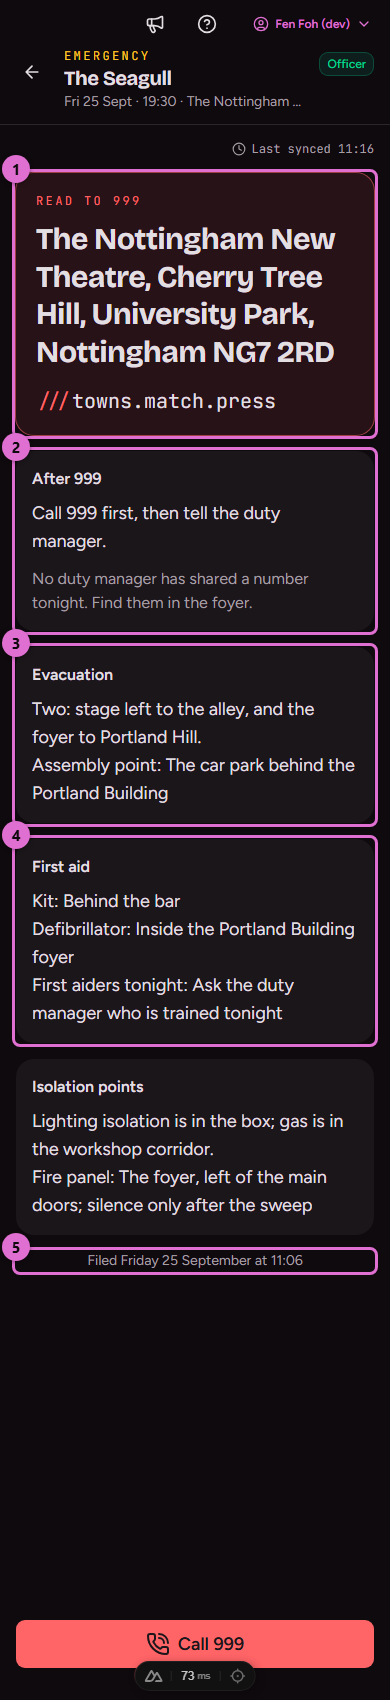
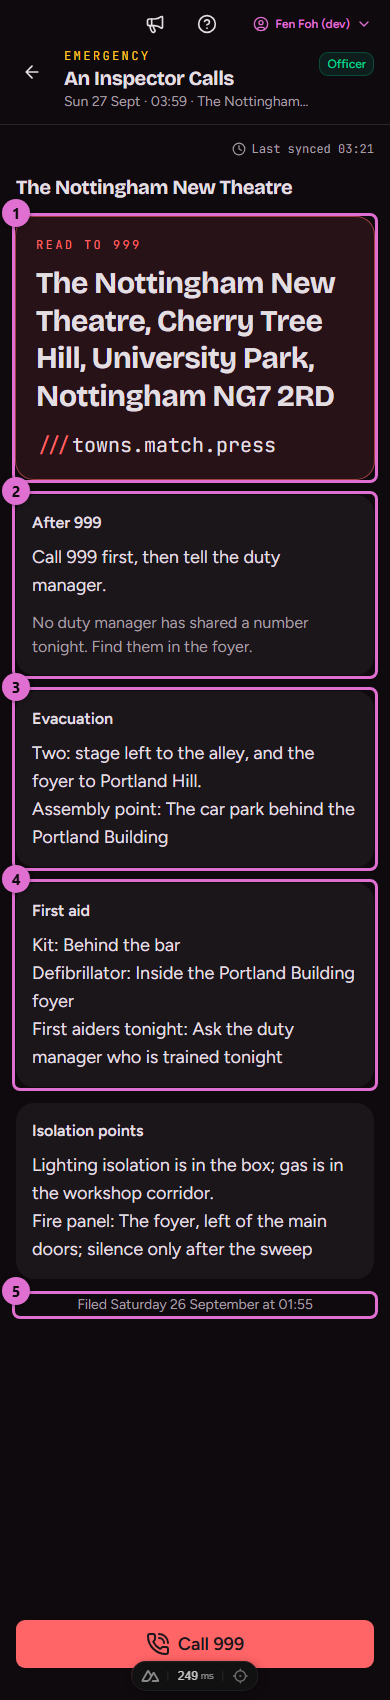
Retake the emergency card picture with each venue named, once the header knows whose night it is (#1310)

diff --git a/scripts/docs-shots/show-night.ts b/scripts/docs-shots/show-night.ts
@@ -154,7 +154,8 @@ export const showNight: Shot[] = [
     name: 'show-night/emergency',
     persona: foh,
     url: '/tonight/emergency',
-    marker: '[data-test="emergency-999"]',
+    // The card renders for anyone before the header learns whose night it is; the badge is last.
+    marker: '[data-test="night-shift-badge"]',
     width: PHONE_WIDTH,
     height: 1700,
     annotations: [
